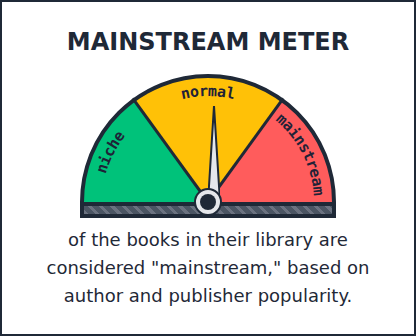
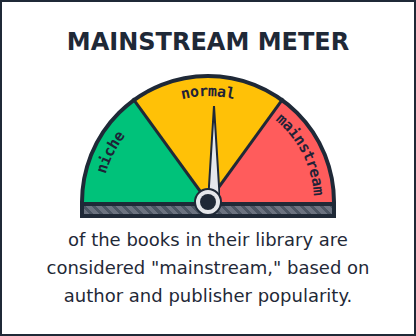
Thicker cross-hatching with less gap on gauge base
4px stripes with 3px gaps (was 3px stripes with 5px gaps)

https://claude.ai/code/session_01BLauoXfoy6BA9xQ8LfgS1T

diff --git a/core/templates/core/partials/dna/mainstream_gauge_card.html b/core/templates/core/partials/dna/mainstream_gauge_card.html
@@ -114,7 +114,7 @@
 
 
             <div class="absolute -bottom-4 border-brand-text border-4 left-0 w-full h-4 z-[15]"
-                 style="background: repeating-linear-gradient(45deg, #6b7280 0px, #6b7280 3px, #4b5563 3px, #4b5563 8px);"></div>
+                 style="background: repeating-linear-gradient(45deg, #6b7280 0px, #6b7280 4px, #4b5563 4px, #4b5563 7px);"></div>
 
             <!-- Note: Increased width to w-3 to make the taper more visible -->
             <div class="absolute bottom-0 left-1/2 h-24 w-3 origin-bottom  z-20"
